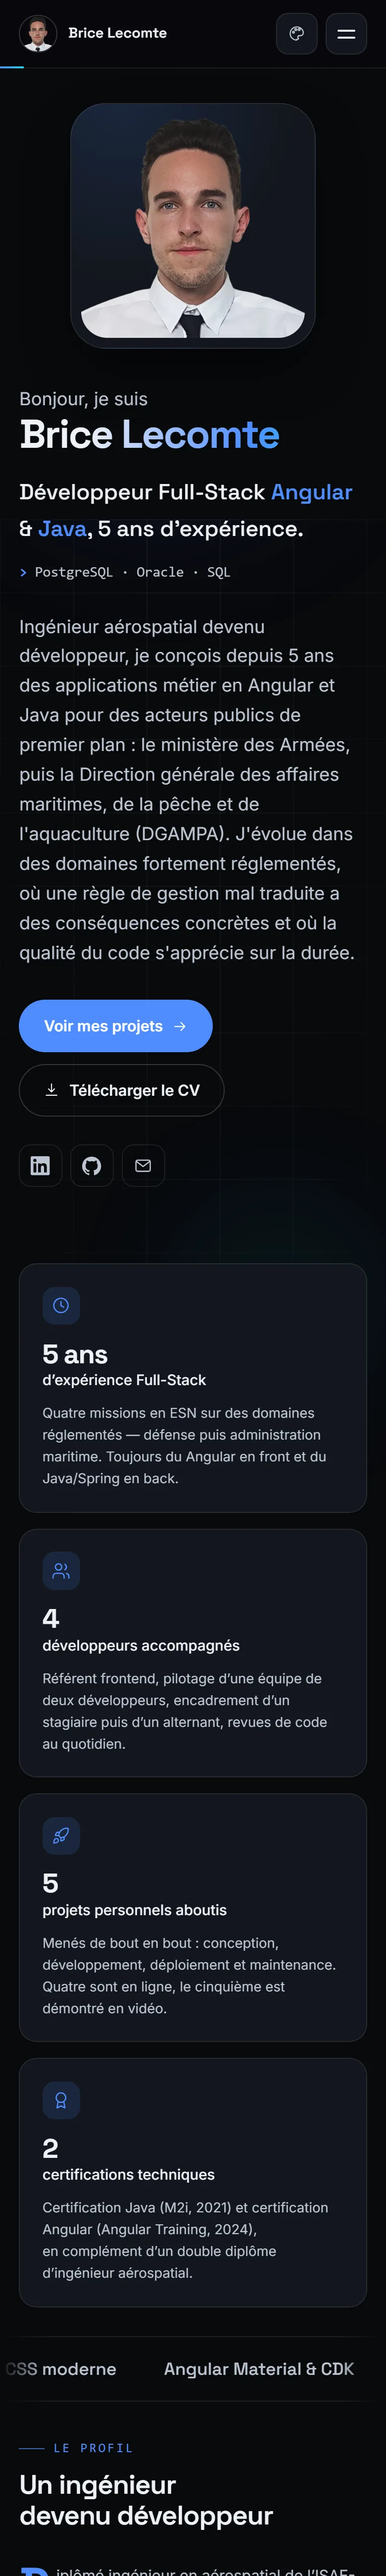
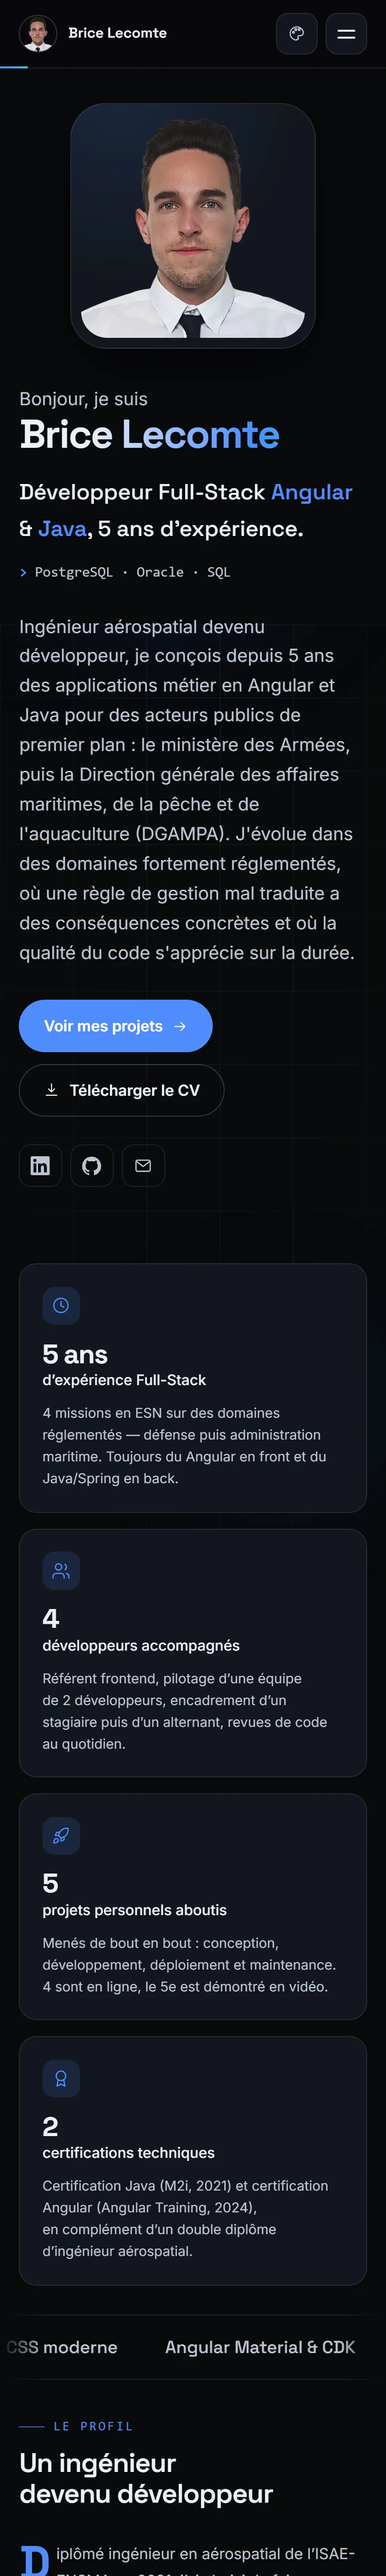
Corrige des affirmations trop larges et la remontée de page
Exactitude
- Le rejeu des évènements à l'hydratation disparaît des pratiques
  générales et de la fiche du portfolio : c'est un détail vrai ici mais
  pas sur les autres applications.
- OnPush, signals et zoneless ne sont plus présentés comme une habitude
  acquise partout. La pratique précise « mis en place sur ce site et
  repris sur les projets suivants », et la fiche du portfolio dit que
  c'est le premier projet où le parti pris va jusqu'au bout.
- « OnPush systématique » quitte la description d'Angular, et OnPush
  quitte la conviction sur la performance.

Rédaction
- Plus aucun point-virgule dans les textes du site ni dans le README.
- Tous les nombres passent en chiffres : 4 missions, 2 développeurs,
  3 ans et 4 mois, 5 réalisations, 6 profils, 19 modules.

Remontée de page
- « Haut de page » était une ancre HTML, qui provoquait une navigation
  vers l'accueil depuis toute autre route. C'est désormais un bouton qui
  remonte la page courante et rend le focus à l'entête, sans changer
  d'URL.

diff --git a/src/app/shared/data/projects.ts b/src/app/shared/data/projects.ts
@@ -44,7 +44,7 @@ export const projects: Project[] = [
       },
       {
         title: 'Le collectif, pas seulement le solo',
-        body: 'Jusqu’à six profils par compte, avec partage de recettes, de séances de sport et d’éléments d’inventaire, gestion à plusieurs des tâches, des repas et des finances communes, et une messagerie temps réel avec réactions. C’est la partie qui a demandé le plus de soin sur le modèle de données : décider ce qui reste strictement personnel et ce qui devient collectif.',
+        body: 'Jusqu’à 6 profils par compte, avec partage de recettes, de séances de sport et d’éléments d’inventaire, gestion à plusieurs des tâches, des repas et des finances communes, et une messagerie temps réel avec réactions. C’est la partie qui a demandé le plus de soin sur le modèle de données : décider ce qui reste strictement personnel et ce qui devient collectif.',
       },
       {
         title: 'Ce que le projet a apporté',
@@ -55,7 +55,7 @@ export const projects: Project[] = [
       '19 espaces de gestion, du tableau de bord aux prévisions',
       'Assistant conversationnel capable de créer, modifier et supprimer après confirmation',
       'Complétion automatique des formulaires à partir du contexte',
-      'Jusqu’à six profils par compte, avec partage d’éléments entre profils',
+      'Jusqu’à 6 profils par compte, avec partage d’éléments entre profils',
       'Messagerie temps réel avec réactions',
       'Données hébergées en Europe et conformité RGPD',
     ],
@@ -68,7 +68,7 @@ export const projects: Project[] = [
     name: 'Game Time',
     tagline: 'Des jeux de réflexion à plusieurs, en temps réel',
     summary:
-      'Motus, drapeaux et marques : trois jeux jouables à plusieurs dans une même partie, avec salons, décompte synchronisé et classement en direct.',
+      'Motus, drapeaux et marques : 3 jeux jouables à plusieurs dans une même partie, avec salons, décompte synchronisé et classement en direct.',
     year: '2024',
     status: 'live',
     featured: true,
@@ -92,7 +92,7 @@ export const projects: Project[] = [
         body: 'La difficulté d’un jeu multijoueur n’est pas le jeu : c’est le temps. Chaque client doit voir la même question au même moment, le décompte doit rester cohérent malgré les latences, et une déconnexion ne doit pas bloquer la partie pour les autres. La logique s’articule autour d’un état de partie unique stocké dans Firestore, dont chaque écran n’est qu’une projection.',
       },
       {
-        title: 'Trois jeux, une seule mécanique',
+        title: '3 jeux, une seule mécanique',
         body: 'Motus, reconnaissance de drapeaux et identification de marques partagent le même moteur de partie : salon, manches, scores, classement. Seule la règle de validation d’une réponse change. Cette abstraction a permis d’ajouter le troisième jeu en une fraction du temps qu’avait demandé le premier.',
       },
       {
@@ -101,7 +101,7 @@ export const projects: Project[] = [
       },
     ],
     features: [
-      'Trois jeux : Motus, drapeaux et marques',
+      '3 jeux : Motus, drapeaux et marques',
       'Salons multijoueurs avec plusieurs participants simultanés',
       'Décompte synchronisé et enchaînement automatique des manches',
       'Classement mis à jour en direct entre chaque question',
@@ -138,7 +138,7 @@ export const projects: Project[] = [
     sections: [
       {
         title: 'Traduire une règle en code',
-        body: 'Le cœur du projet est un moteur de règles : des barèmes, des plafonds, des conditions de cumul. Ces règles sont isolées de l’interface pour qu’une évolution réglementaire se traduise par un changement de données, pas par une réécriture de composants. Le même réflexe a servi trois ans plus tard sur la taxation 2026, en mission.',
+        body: 'Le cœur du projet est un moteur de règles : des barèmes, des plafonds, des conditions de cumul. Ces règles sont isolées de l’interface pour qu’une évolution réglementaire se traduise par un changement de données, pas par une réécriture de composants. Le même réflexe a servi 3 ans plus tard sur la taxation 2026, en mission.',
       },
       {
         title: 'Un parcours guidé',
@@ -174,7 +174,7 @@ export const projects: Project[] = [
       { label: 'Statut', value: 'Démo vidéo' },
     ],
     context:
-      'Le projet qui tient les deux bouts de la chaîne en même temps : un front Angular exigeant en interactions, et un back Java/Spring avec une vraie modélisation relationnelle. Une application de rencontre est un excellent prétexte — elle concentre authentification, upload, filtrage, appariement et temps réel.',
+      'Le projet qui tient le front et le back en même temps : un front Angular exigeant en interactions, et un back Java/Spring avec une vraie modélisation relationnelle. Une application de rencontre est un excellent prétexte — elle concentre authentification, upload, filtrage, appariement et temps réel.',
     sections: [
       {
         title: 'Modéliser la correspondance',
@@ -229,11 +229,11 @@ export const projects: Project[] = [
     sections: [
       {
         title: 'Zoneless et signals',
-        body: 'L’application tourne sans Zone.js : l’état est porté par des signals, tous les composants sont en stratégie OnPush, et Angular ne recalcule que ce qui a réellement changé. Le résultat est un bundle plus léger et une détection de changement prévisible.',
+        body: 'L’application tourne sans Zone.js : l’état est porté par des signals et tous les composants sont en stratégie OnPush. Le résultat est un bundle plus léger et une détection de changement prévisible. C’est le premier projet où je pousse ce parti pris jusqu’au bout, et je le reprends depuis sur mes développements personnels.',
       },
       {
         title: 'Prerendering statique',
-        body: 'Chaque route, fiches projet comprises, est générée en HTML au moment du build. Firebase Hosting ne sert que des fichiers statiques, le contenu est visible immédiatement et indexable, puis l’application s’hydrate avec rejeu des évènements pour ne perdre aucun clic.',
+        body: 'Chaque route, fiches projet comprises, est générée en HTML au moment du build. Firebase Hosting ne sert que des fichiers statiques, le contenu est visible immédiatement et indexable, puis l’application prend le relais côté navigateur.',
       },
       {
         title: 'Accessibilité dès la conception',
@@ -241,7 +241,7 @@ export const projects: Project[] = [
       },
     ],
     features: [
-      'Thème clair, sombre ou système, avec quatre couleurs d’accent',
+      'Thème clair, sombre ou système, avec 4 couleurs d’accent',
       'Réglage des animations, mémorisé entre les visites',
       'Maquettes desktop et mobile réellement défilables',
       'Routes prérendues, dont les fiches projet générées à partir des données',

diff --git a/src/app/shared/data/journey.ts b/src/app/shared/data/journey.ts
@@ -51,7 +51,7 @@ export const milestones: Milestone[] = [
     location: 'Rennes',
     logo: 'history/sopra.webp',
     summary:
-      'Trois ans et quatre mois au service du ministère des Armées, sur deux missions successives : d’abord l’intégration de données, puis le développement full-stack, avec une prise de responsabilité progressive jusqu’au rôle de référent frontend.',
+      '3 ans et 4 mois au service du ministère des Armées, sur 2 missions successives : d’abord l’intégration de données, puis le développement full-stack, avec une prise de responsabilité progressive jusqu’au rôle de référent frontend.',
     missions: [
       {
         label: 'Première mission — Intégration de données',
@@ -64,13 +64,13 @@ export const milestones: Milestone[] = [
         label: 'Seconde mission — Développement full-stack',
         period: 'Janv. 2023 — Oct. 2024',
         summary:
-          'Près de deux ans sur une application web de gestion de la maintenance de véhicules militaires terrestres, de la conception au maintien en condition opérationnelle.',
+          'Près de 2 ans sur une application web de gestion de la maintenance de véhicules militaires terrestres, de la conception au maintien en condition opérationnelle.',
         stack: ['Angular', 'TypeScript', 'Java', 'Spring Boot', 'PostgreSQL', 'Git'],
       },
     ],
     achievements: [
-      'Rôle de référent frontend au bout de deux ans : choix d’architecture, conventions, revues systématiques des développements de l’équipe.',
-      'Pilotage d’une équipe de deux développeurs pour tenir les jalons et les délais annoncés au client.',
+      'Rôle de référent frontend au bout de 2 ans : choix d’architecture, conventions, revues systématiques des développements de l’équipe.',
+      'Pilotage d’une équipe de 2 développeurs pour tenir les jalons et les délais annoncés au client.',
       'Accompagnement d’un stagiaire, avec transmission des bonnes pratiques pour soutenir sa montée en compétences.',
       'Montée en charge progressive sur le back Java/Spring, jusqu’à couvrir la chaîne complète.',
     ],
@@ -84,7 +84,7 @@ export const milestones: Milestone[] = [
     title: 'La bascule vers le développement',
     organisation: 'Reconversion professionnelle',
     summary:
-      'Diplôme d’ingénieur aérospatial en poche, choix assumé de ne pas exercer dans l’aéronautique : le métier menait vers des calculs très théoriques, quand les réalisations concrètes se trouvaient du côté du logiciel. Trois mois entre l’obtention du diplôme et la prise de poste.',
+      'Diplôme d’ingénieur aérospatial en poche, choix assumé de ne pas exercer dans l’aéronautique : le métier menait vers des calculs très théoriques, quand les réalisations concrètes se trouvaient du côté du logiciel. 3 mois entre l’obtention du diplôme et la prise de poste.',
     achievements: [
       'Reconversion menée via une POEI Java, avec un CDI à la clé chez Sopra Steria.',
       'Certification Java validée chez M2i Formation en juillet 2021.',
@@ -102,20 +102,20 @@ export const milestones: Milestone[] = [
     organisation: 'ISAE-ENSMA',
     location: 'Poitiers',
     summary:
-      'Une école d’ingénieurs tournée vers la mécanique et l’énergétique : optimisation moteur, analyse thermique avancée, gestion de projet, innovation drone. La formation qui apprend à modéliser un système complexe avant de le construire, et deux stages de calcul menés en laboratoire puis en industrie.',
+      'Une école d’ingénieurs tournée vers la mécanique et l’énergétique : optimisation moteur, analyse thermique avancée, gestion de projet, innovation drone. La formation qui apprend à modéliser un système complexe avant de le construire, et 2 stages de calcul menés en laboratoire puis en industrie.',
     missions: [
       {
         label: 'Stage ingénieur aérothermique — Safran',
         period: 'Juil. — Déc. 2020',
         summary:
-          'Modélisation CFD en 1D, 2D et 3D de cavités de turbines haute pression, avec pour objectif de limiter l’élévation de température des écoulements. Six mois en Seine-et-Marne, sur un sujet directement industriel.',
+          'Modélisation CFD en 1D, 2D et 3D de cavités de turbines haute pression, avec pour objectif de limiter l’élévation de température des écoulements. 6 mois en Seine-et-Marne, sur un sujet directement industriel.',
         stack: ['CFD', 'Simulation numérique', 'Aérothermique'],
       },
       {
         label: 'Stage ingénieur aérothermique — KTH, Stockholm',
         period: 'Juin — Sept. 2019',
         summary:
-          'Création d’un modèle CFD 3D pour l’étude du flux radial de purge dans les cavités de turbines haute pression, au Kungliga Tekniska högskolan. Quatre mois de travail et de vie entièrement en anglais.',
+          'Création d’un modèle CFD 3D pour l’étude du flux radial de purge dans les cavités de turbines haute pression, au Kungliga Tekniska högskolan. 4 mois de travail et de vie entièrement en anglais.',
         stack: ['CFD 3D', 'Modélisation', 'Anglais professionnel'],
       },
     ],

diff --git a/src/app/shared/data/profile.ts b/src/app/shared/data/profile.ts
@@ -50,21 +50,21 @@ export const highlights: Highlight[] = [
     value: `${yearsOfExperience()} ans`,
     label: 'd’expérience Full-Stack',
     detail:
-      'Quatre missions en ESN sur des domaines réglementés — défense puis administration maritime. Toujours du Angular en front et du Java/Spring en back.',
+      '4 missions en ESN sur des domaines réglementés — défense puis administration maritime. Toujours du Angular en front et du Java/Spring en back.',
   },
   {
     icon: 'users',
     value: '4',
     label: 'développeurs accompagnés',
     detail:
-      'Référent frontend, pilotage d’une équipe de deux développeurs, encadrement d’un stagiaire puis d’un alternant, revues de code au quotidien.',
+      'Référent frontend, pilotage d’une équipe de 2 développeurs, encadrement d’un stagiaire puis d’un alternant, revues de code au quotidien.',
   },
   {
     icon: 'rocket',
     value: '5',
     label: 'projets personnels aboutis',
     detail:
-      'Menés de bout en bout : conception, développement, déploiement et maintenance. Quatre sont en ligne, le cinquième est démontré en vidéo.',
+      'Menés de bout en bout : conception, développement, déploiement et maintenance. 4 sont en ligne, le 5e est démontré en vidéo.',
   },
   {
     icon: 'award',
@@ -86,7 +86,7 @@ export const principles: WorkPrinciple[] = [
     icon: 'gauge',
     title: 'La performance se mesure',
     description:
-      'Lazy loading, OnPush, prerendering, requêtes SQL tracées : le temps perdu se profile, il ne se devine pas. Sur mes missions, l’amélioration continue des performances fait partie du contrat.',
+      'Lazy loading, prerendering, requêtes SQL tracées : le temps perdu se profile, il ne se devine pas. Sur mes missions, l’amélioration continue des performances fait partie du contrat.',
   },
   {
     icon: 'accessibility',
@@ -120,7 +120,7 @@ export const transferableStrengths: WorkPrinciple[] = [
     icon: 'target',
     title: 'La rigueur du calcul',
     description:
-      'Cinq ans à dimensionner des systèmes où l’approximation coûte cher, et le réflexe durable de vérifier les hypothèses avant de construire dessus.',
+      '5 ans à dimensionner des systèmes où l’approximation coûte cher, et le réflexe durable de vérifier les hypothèses avant de construire dessus.',
   },
   {
     icon: 'layers',

diff --git a/src/app/shared/data/skills.ts b/src/app/shared/data/skills.ts
@@ -11,7 +11,7 @@ export const skillGroups: SkillGroup[] = [
       {
         name: 'Angular',
         level: 95,
-        note: 'Le socle de mes interfaces. Architecture par features, lazy loading, signals, formulaires réactifs typés, OnPush systématique, SSR et prerendering.',
+        note: 'Le socle de mes interfaces. Architecture par features, lazy loading, signals, formulaires réactifs typés, SSR et prerendering.',
       },
       {
         name: 'TypeScript',
@@ -26,7 +26,7 @@ export const skillGroups: SkillGroup[] = [
       {
         name: 'HTML sémantique & CSS moderne',
         level: 90,
-        note: 'Écrits à la main, sans framework CSS. Grid et flexbox, variables CSS, container queries, clamp fluide ; le balisage avant l’artifice.',
+        note: 'Écrits à la main, sans framework CSS. Grid et flexbox, variables CSS, container queries, clamp fluide. Le balisage avant l’artifice.',
       },
       {
         name: 'Angular Material & CDK',
@@ -128,7 +128,7 @@ export const skillGroups: SkillGroup[] = [
       {
         name: 'IA générative',
         level: 82,
-        note: 'Exploration, squelettes, relecture de diff. Prompts ciblés et contexte minimal pour maîtriser le coût en tokens ; rien n’est livré sans relecture.',
+        note: 'Exploration, squelettes, relecture de diff. Prompts ciblés et contexte minimal pour maîtriser le coût en tokens, et rien n’est livré sans relecture.',
       },
       {
         name: 'Agilité',
@@ -150,13 +150,13 @@ export const practices: Practice[] = [
     icon: 'gauge',
     title: 'Rendu et chargement',
     description:
-      'Routes en lazy loading, prerendering statique pour un premier rendu instantané, hydratation avec rejeu des évènements, images en WebP.',
+      'Routes en lazy loading, prerendering statique pour un premier rendu instantané, images en WebP.',
   },
   {
     icon: 'code',
     title: 'Détection de changement maîtrisée',
     description:
-      'OnPush sur tous les composants, état porté par des signals, application zoneless. Angular ne recalcule que ce qui a réellement changé.',
+      'OnPush sur tous les composants, état porté par des signals, application zoneless. Mis en place sur ce site et repris sur les projets suivants.',
   },
   {
     icon: 'shield',

diff --git a/src/app/shared/data/expertise.ts b/src/app/shared/data/expertise.ts
@@ -19,7 +19,7 @@ export const serviceOffers: ServiceOffer[] = [
     icon: 'wrench',
     title: 'Reprendre et faire évoluer un existant',
     pitch:
-      'Le cœur de mes cinq dernières années. Reprendre une base de code écrite par d’autres, comprendre les règles métier avant de les toucher, et livrer des évolutions sans casser ce qui tourne.',
+      'Le cœur de mes 5 dernières années. Reprendre une base de code écrite par d’autres, comprendre les règles métier avant de les toucher, et livrer des évolutions sans casser ce qui tourne.',
     deliverables: [
       'Prise en main du domaine fonctionnel avant toute refonte',
       'Évolutions et corrections sur applications en production',
@@ -66,7 +66,7 @@ export const collaboration = {
     {
       icon: 'globe' as const,
       title: 'À l’aise en équipe répartie',
-      text: 'Cinq ans d’ESN sur des projets distribués : écrit soigné, décisions tracées, disponibilité réelle sur les plages communes. Le distanciel demande plus de rigueur, pas moins.',
+      text: '5 ans d’ESN sur des projets distribués : écrit soigné, décisions tracées, disponibilité réelle sur les plages communes. Le distanciel demande plus de rigueur, pas moins.',
     },
     {
       icon: 'clock' as const,

diff --git a/src/app/shared/components/footer/footer.component.ts b/src/app/shared/components/footer/footer.component.ts
@@ -1,3 +1,4 @@
+import { DOCUMENT } from '@angular/common';
 import { ChangeDetectionStrategy, Component, inject } from '@angular/core';
 import { RouterLink } from '@angular/router';
 import { environment } from '../../../../environments/environment';
@@ -15,11 +16,19 @@ import { ToastService } from '../../../core/services/toast.service';
 })
 export class FooterComponent {
   private readonly toastService = inject(ToastService);
+  private readonly document = inject(DOCUMENT);
 
   readonly profile = profile;
   readonly navItems = navItems;
   readonly imagePath = environment.imagePath;
   readonly currentYear = new Date().getFullYear();
+
+  /** Remonte la page courante sans changer de route. */
+  scrollToTop(): void {
+    this.document.defaultView?.scrollTo({ top: 0, behavior: 'smooth' });
+    // L’utilisateur clavier ne doit pas rester coincé en bas du document.
+    this.document.getElementById('haut-de-page')?.focus({ preventScroll: true });
+  }
 
   onCvDownload(): void {
     this.toastService.success('CV téléchargé. Merci de votre intérêt !');

diff --git a/src/app/expertise/expertise.component.html b/src/app/expertise/expertise.component.html
@@ -4,7 +4,7 @@
   [lead]="
     'Après ' +
     years +
-    ' ans passés sur des applications métier en Angular et Java, voici les quatre types de sujets sur lesquels mon apport est le plus net — et, en fin de page, ceux qui relèvent d’un autre métier.'
+    ' ans passés sur des applications métier en Angular et Java, voici les 4 types de sujets sur lesquels mon apport est le plus net — et, en fin de page, ceux qui relèvent d’un autre métier.'
   "
 />
 
@@ -61,7 +61,7 @@
       <p class="justified">
         Je ne suis ni designer, ni expert DevOps, ni data engineer. Je sais lire une maquette,
         travailler avec un pipeline existant et écrire du SQL correct, mais si un besoin porte
-        principalement sur l’un de ces trois métiers, quelqu’un d’autre sera plus efficace. Autant
+        principalement sur l’un de ces 3 métiers, quelqu’un d’autre sera plus efficace. Autant
         le dire dès le premier échange plutôt que de le découvrir au troisième sprint.
       </p>
     </div>

diff --git a/src/app/skills/skills.component.html b/src/app/skills/skills.component.html
@@ -95,10 +95,10 @@
       <h2>Une note sur ces niveaux</h2>
       <p class="justified">
         Les pourcentages ci-dessus sont une auto-évaluation, pas une note d’examen. Ils traduisent
-        ma capacité à intervenir seul sur un sujet donné&nbsp;: au-delà de 85, je suis autonome et
-        je peux arbitrer pour l’équipe&nbsp;; entre 70 et 85, je livre sans difficulté mais je
-        continue d’apprendre&nbsp;; en dessous, j’ai pratiqué en contexte réel sans en faire ma
-        spécialité. Je préfère annoncer cela clairement plutôt que d’afficher cinq étoiles partout.
+        ma capacité à intervenir seul sur un sujet donné. Au-delà de 85, je suis autonome et je peux
+        arbitrer pour l’équipe. Entre 70 et 85, je livre sans difficulté mais je continue
+        d’apprendre. En dessous, j’ai pratiqué en contexte réel sans en faire ma spécialité. Je
+        préfère annoncer cela clairement plutôt que d’afficher 5 étoiles partout.
       </p>
     </div>
   </div>

diff --git a/src/app/projects/projects.component.ts b/src/app/projects/projects.component.ts
@@ -42,7 +42,7 @@ export class ProjectsComponent implements OnInit {
     this.seoService.setPage({
       title: 'Projets | Applications web Angular & Java — Brice Lecomte',
       description:
-        'Cinq applications web conçues, développées et déployées de bout en bout : gestion du quotidien, quiz multijoueur, simulateur d’aides, application full-stack Java et ce portfolio.',
+        '5 applications web conçues, développées et déployées de bout en bout : gestion du quotidien, quiz multijoueur, simulateur d’aides, application full-stack Java et ce portfolio.',
       path: '/projets',
     });
   }

diff --git a/src/app/journey/journey.component.ts b/src/app/journey/journey.component.ts
@@ -50,7 +50,7 @@ export class JourneyComponent implements OnInit {
     this.seoService.setPage({
       title: 'Parcours | Brice Lecomte, développeur Angular & Java',
       description:
-        'De l’ISAE-ENSMA à Open en passant par Sopra Steria et Capgemini : quatre missions full-stack Angular et Java sur des domaines réglementés, après une reconversion assumée.',
+        'De l’ISAE-ENSMA à Open en passant par Sopra Steria et Capgemini : 4 missions full-stack Angular et Java sur des domaines réglementés, après une reconversion assumée.',
       path: '/parcours',
     });
   }

diff --git a/src/app/home/profile-intro/profile-intro.component.html b/src/app/home/profile-intro/profile-intro.component.html
@@ -36,7 +36,7 @@
     <p class="justified">
       Au-delà de cette stack Angular/Java, c’est surtout la dimension de mon
       rôle qui s’est élargie&nbsp;: référent frontend au bout de 2 ans, pilotage
-      d’une équipe de deux développeurs sur les jalons client, encadrement d’un
+      d’une équipe de 2 développeurs sur les jalons client, encadrement d’un
       stagiaire puis d’un alternant. La valeur d’un développeur confirmé ne se
       mesure pas à la quantité de code produit, mais à ce que l’équipe livre
       sereinement autour de lui.

diff --git a/src/app/projects/projects.component.html b/src/app/projects/projects.component.html
@@ -78,8 +78,8 @@
 <section class="section shell">
   <app-section-header
     eyebrow="Tous les projets"
-    title="Cinq réalisations, cinq contextes différents"
-    lead="Du calculateur en deux mois à l’application full-stack sur neuf mois, chaque projet a été choisi pour la difficulté technique qu’il m’imposait."
+    title="5 réalisations, 5 contextes différents"
+    lead="Du calculateur en 2 mois à l’application full-stack sur 9 mois, chaque projet a été choisi pour la difficulté technique qu’il m’imposait."
   />
 
   <ul class="grid">
